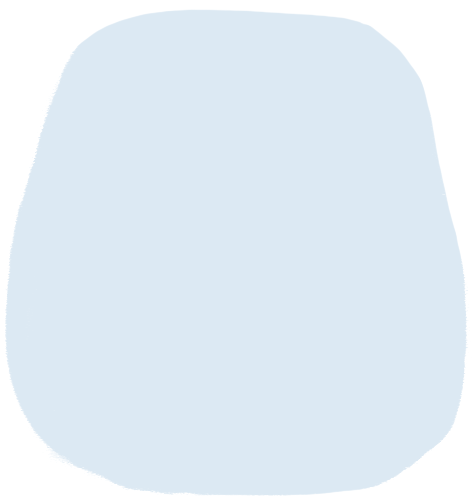
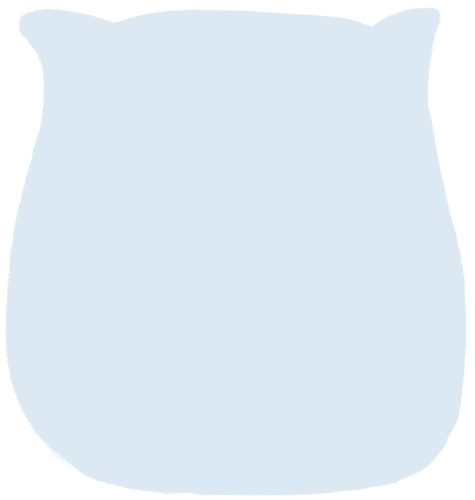
圖片調整

diff --git a/HomeForStray/public/stylesheets/style.css b/HomeForStray/public/stylesheets/style.css
@@ -809,7 +809,7 @@ div.adop-name {
 }
 /* 狗狗 */
 .adopt-bg-dog{
-	background: url(../img/新圖/adoptdog1.png);
+	background: url(../img/新圖/adoptdog2.png);
 	background-repeat: no-repeat;
 	background-position: center;
 	background-size:inherit;
